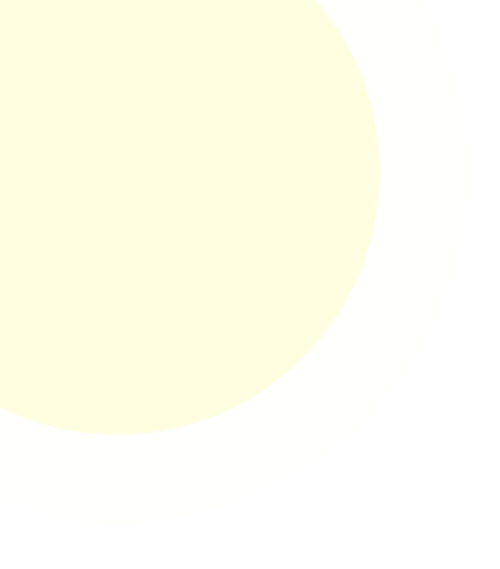
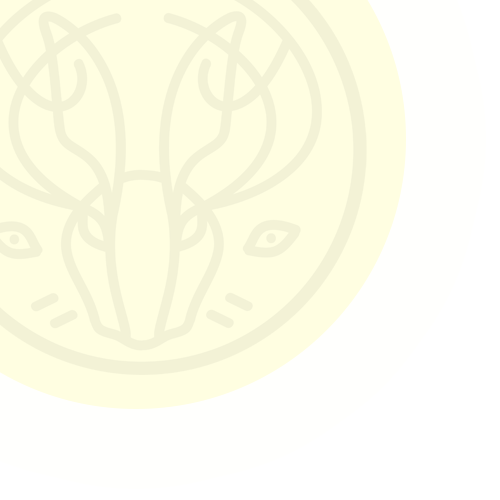
Updated section order. Updated sticky nav.

Changed region(s): [[0.0, 0.0, 0.81, 0.84]]

diff --git a/index.html b/index.html
@@ -10,8 +10,7 @@
     <link rel="stylesheet" href="./css/style.css"/>
     <link rel="preconnect" href="https://fonts.googleapis.com">
     <link rel="preconnect" href="https://fonts.gstatic.com" crossorigin>
-    <link href="https://fonts.googleapis.com/css2?family=Akaya+Kanadaka&family=Quicksand:wght@300;400;500;700&display=swap" rel="stylesheet"> 
-<link href="https://fonts.googleapis.com/css2?family=Berkshire+Swash&family=Calistoga&family=Grand+Hotel&family=Jacques+Francois+Shadow&family=Kavoon&family=Lily+Script+One&family=Mansalva&family=Modak&family=Oleo+Script+Swash+Caps:wght@700&family=Sansita+Swashed:wght@300;500;900&family=Sedgwick+Ave&family=Suez+One&display=swap" rel="stylesheet"> 
+    <link href="https://fonts.googleapis.com/css2?family=Quicksand:wght@300;400;500;700&display=swap" rel="stylesheet"> 
     <title>Ren Ivey - Web Developer and Digital Artist</title>
 </head>
 
@@ -34,11 +33,11 @@
 <!-- Controls the content of the floating objects. -->
 <ul class="floaters">
     <li><i class="fal fa-code fa-2x"></i></li>
-    <li><i class="fad fa-deer fa-5x"></i></li>
+    <li><i class="fal fa-code fa-5x"></i></li>
     <li><i class="fal fa-code fa-5x"></i></li>
     <li><i class="fal fa-code fa-3x"></i></li>
     <li><i class="fal fa-code fa-7x"></i></li>
-    <li><i class="fal fa-code fa-5x"></i></li>
+    <li><i class="fad fa-deer fa-5x"></i></li>
     <li><i class="fal fa-code fa-3x"></i></li>
     <li><i class="fal fa-code fa-2x"></i></li>
     <li><i class="fal fa-code fa-3x"></i></li>
@@ -51,92 +50,98 @@
 <img src=".\images/twee.png" class="tree-line"></div>
 
 <div id="content">
-<section id="about-me">
-    <h1>ABOUT-ME</h1>
-    <div>
-    <img src=".\images/photo.jpg" class="photo">
-    <p>I'm located in Appalachia, specifically North Georgia, and I've been working in the tech industry for several years, with over five years of experience working remotely. While I've primarily served in the field of customer experience, with a particular focus in account management and billing, I've also spent some time as a web designer, customizing responsive templates for an ever-growing customer base. Currently, I'm in the process of completing the full stack coding bootcamp at Georgia Tech in order to become a front end web developer.</p>
+    <section id="about-me">
+        <h1>ABOUT-ME</h1>
+        <div>
+        <img src=".\images/photo.jpg" class="photo">
+        <p>I'm located in Appalachia, specifically North Georgia, and I've been working in the tech industry for several years, with over five years of experience working remotely. While I've primarily served in the field of customer experience, with a particular focus in account management and billing, I've also spent some time as a web designer, customizing responsive templates for an ever-growing customer base. Currently, I'm in the process of completing the full stack coding bootcamp at Georgia Tech in order to become a front end web developer.</p>
 
-    <p>When I'm not neck-deep in code, I like to draw, lift, hike, watch documentaries, and play video games.</p>
-</div>
-</section>
-
-<section id="my-work">
-    <h1>MY-WORK</h1>
+        <p>When I'm not neck-deep in code, I like to draw, lift, hike, watch documentaries, and play video games.</p>
+        <div id="badges">
+            <i class="fab fa-css3-alt fa-6x"></i>
+            <i class="fab fa-html5 fa-6x"></i>
+            <i class="fab fa-js fa-6x"></i>
+            <i class="fab fa-react fa-6x"></i>
+            <i class="fab fa-node-js fa-6x"></i>
+        </div>
+    </section>
+    <section id="my-work">
+        <h1>MY-WORK</h1>
 <!-- All Web development gallery images. -->
-    <section class="gallery">
-        <h2>Web Development</h2>
-        <div class="row">
-            <ul>
-                <a href="#" class="close"></a>
-                <li><a class="image" href="#item01"><img src=".\images/fido-friendly.png" class="grayscale" alt=""></a></li>
-                <li><a class="image" href="#item02"><img src=".\images/work-scheduler.png" class="grayscale" alt=""></a></li>
-                <li><a class="image" href="#item03"><img src=".\images/code-quiz.png" class="grayscale" alt=""></a></li>
-                <li><a class="image" href="#item04"><img src=".\images/more.png" class="grayscale" alt=""></a></li>
-            </ul>
-        </div> 
+        <section class="gallery">
+            <h2>Web Development</h2>
+            <div class="row">
+                <ul>
+                    <a href="#" class="close"></a>
+                    <li><a class="image" href="#item01"><img src=".\images/fido-friendly.png" class="grayscale" alt=""></a></li>
+                    <li><a class="image" href="#item02"><img src=".\images/work-scheduler.png" class="grayscale" alt=""></a></li>
+                    <li><a class="image" href="#item03"><img src=".\images/code-quiz.png" class="grayscale" alt=""></a></li>
+                    <li><a class="image" href="#item04"><img src=".\images/more.png" class="grayscale" alt=""></a></li>
+                </ul>
+            </div> 
 <!-- Web development description box 01. -->
-    <div id="item01" class="port">
-         <div class="row">
-             <div class="description">
-                <img src=".\images/fido-friendly.png" alt="">
-                 <h2>Fido Friendly</h2>
-                 <p>A web application created as part of a group project for the full stack Georgia Tech development bootcamp. Uses Bootstrap and jquery, as well as OMDB and Does the Dog Die? APIs. Features a mobile responsive layout. </p>
-                <a href="https://github.com/hr-ivey/fido-friendly/" class="myButton">REPO</a>
-                <a href="https://hr-ivey.github.io/fido-friendly/" class="myButton">DEPLOYED</a>
+        <div id="item01" class="port">
+            <div class="row">
+                <div class="description">
+                    <img src=".\images/fido-friendly.png" alt="">
+                    <h2>Fido Friendly</h2>
+                    <p>A web application created as part of a group project for the full stack Georgia Tech development bootcamp. Uses Bootstrap and jquery, as well as OMDB and Does the Dog Die? APIs. Features a mobile responsive layout. </p>
+                    <a href="https://github.com/hr-ivey/fido-friendly/" class="myButton">REPO</a>
+                    <a href="https://hr-ivey.github.io/fido-friendly/" class="myButton">DEPLOYED</a>
+                </div>
+            </div>
+        </div>
+<!-- Web development description box 02. -->
+        <div id="item02" class="port">
+            <div class="row">
+                <div class="description">
+                    <img src=".\images/work-scheduler.png" alt="">
+                    <h2>Work Scheduler</h2>
+                    <p>A responsive work scheduler utilizing Javascript and third party APIs to color-code past, present, and future events for the user, with input saved to local storage. </p>
+                <a href="https://github.com/hr-ivey/work-scheduler/" class="myButton">REPO</a>
+                <a href="https://hr-ivey.github.io/work-scheduler/" class="myButton">DEPLOYED</a>
             </div>
         </div>
     </div>
-    <!-- Web development description box 02. -->
-    <div id="item02" class="port">
-        <div class="row">
-            <div class="description">
-                <img src=".\images/work-scheduler.png" alt="">
-                <h2>Work Scheduler</h2>
-                <p>A responsive work scheduler utilizing Javascript and third party APIs to color-code past, present, and future events for the user, with input saved to local storage. </p>
-               <a href="https://github.com/hr-ivey/work-scheduler/" class="myButton">REPO</a>
-               <a href="https://hr-ivey.github.io/work-scheduler/" class="myButton">DEPLOYED</a>
-           </div>
-       </div>
-   </div>
 <!-- Web development description box 03. -->
-    <div id="item03" class="port">
-        <div class="row">
-            <div class="description">
-                <img src=".\images/code-quiz.png" alt="">
-                <h2>Javascript Code Quiz</h2>
-                <p>A fun little Javascript Code Quiz made with....well, Javascript!</p>
-               <a href="https://github.com/hr-ivey/code-quiz/" class="myButton">REPO</a>
-               <a href="https://hr-ivey.github.io/code-quiz/" class="myButton">DEPLOYED</a>
+        <div id="item03" class="port">
+            <div class="row">
+                <div class="description">
+                    <img src=".\images/code-quiz.png" alt="">
+                    <h2>Javascript Code Quiz</h2>
+                    <p>A fun little Javascript Code Quiz made with....well, Javascript!</p>
+                <a href="https://github.com/hr-ivey/code-quiz/" class="myButton">REPO</a>
+                <a href="https://hr-ivey.github.io/code-quiz/" class="myButton">DEPLOYED</a>
+            </div>
         </div>
-    </div>
-    </div>
+        </div>
 <!-- Web development description box 04. -->
-    <div id="item04" class="port">
-        <div class="row">
-            <div class="description">  
-                <h2>Even more coming soon!</h2>
+        <div id="item04" class="port">
+            <div class="row">
+                <div class="description">  
+                    <h2>Even more coming soon!</h2>
+            </div>
         </div>
-    </div>
-    </div>
-    </section>
+        </div>
+        </section>
 <!-- Digital art gallery images will go here in the future.-->
-    <section class="gallery">
-        <h2>Digital Art</h2>
-        <center><span style="font-size:2em; letter-spacing: .3em;"> Coming soon. </span></center>
-</section>
+        <section class="gallery">
+            <h2>Digital Art</h2>
+            <center><span style="font-size:2em; letter-spacing: .3em;"> Coming soon. </span></center>
+    </section>
+</div>
 
 <footer>
 <section id="contact-me">
     <h1>CONTACT-ME</h1>
-</section>
-</div>
+
     <ul class="contact">
         <li><a href="mailto:haleyrivey@gmail.com" target="_blank"><i class="fad fa-envelope-square fa-3x"></i></a></li>
         <li><a href="https://www.linkedin.com/in/haleyrivey "target="_blank"><i class="fab fa-linkedin fa-3x"></i></a></li>
         <li><a href="https://github.com/hr-ivey/" target="_blank"><i class="fab fa-github-square fa-3x"></i></a></li>
     </ul>
 </footer>
+</section>
 
 <script src="https://ajax.googleapis.com/ajax/libs/jquery/1.11.0/jquery.min.js"></script>
 <script src=".\script.js"></script>

diff --git a/css/style.css b/css/style.css
@@ -56,7 +56,7 @@ header {
     display: none;
 }
 #content {
-    padding: 0em 5em;
+    padding: 0em 5em 5em 5em;
     background-color: var(--primary);
 }
 #about-me {
@@ -73,10 +73,15 @@ header {
     top: 0;
     width: 100%;
     background-color: #131313;
-    display: block;
     z-index: 1000;
   }
-
+#badges {
+    text-align: center;
+    color: #32553a;
+  }
+#badges .fab {
+    padding: .2em 1em;
+}
 .nav {
     display: flex;
     flex-wrap: wrap;
@@ -133,7 +138,7 @@ header {
     float: left;
     padding: 1em 1em 3em 1em;
     width: 260px;
-    margin: 0em 2em 1em 0em;
+    margin: 0em 4em 1em 0em;
     background-color: var(--tertiary);
 }
 .project-container {
@@ -388,5 +393,5 @@ header {
 @media (max-width: 767px) {
 .photo {
     width: -webkit-fill-available;
-    margin: 2em 0em;
+    margin: 2em;
 }

diff --git a/script.js b/script.js
@@ -21,9 +21,9 @@ window.onscroll = function() {myFunction()};
 var navbar = document.getElementById("stickynav");
 var sticky = navbar.offsetTop;
 function myFunction() {
-  if ($(window).scrollTop() >= 900) {
-    navbar.classList.add("sticky")
+  if ($(window).scrollTop() >= 1000 & $(window).width() > 1024) {
     $('#stickynav').fadeIn();
+    navbar.classList.add("sticky", 1000)
     $('#logo').fadeIn();
   } else {
     navbar.classList.remove("sticky");
